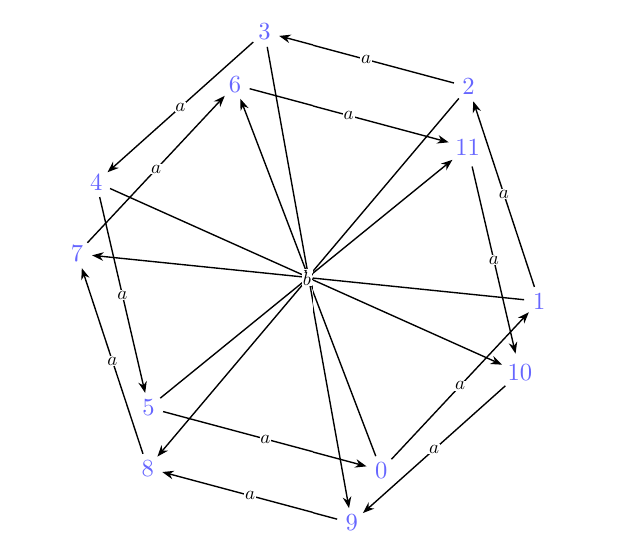
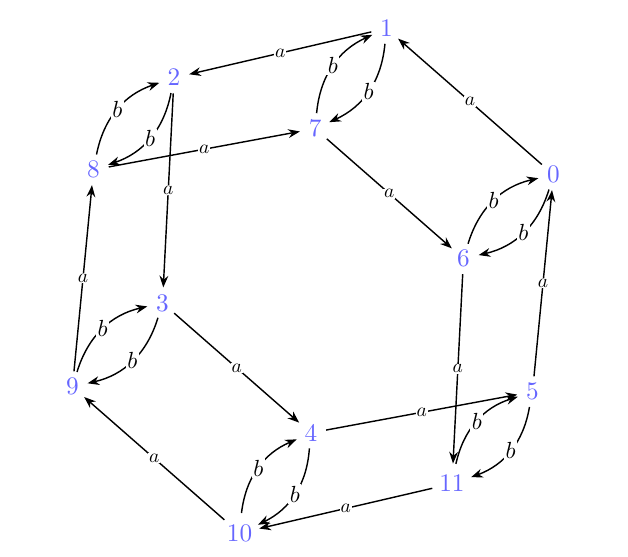
Corrected example in Readme and improved datatotex

diff --git a/stallings_amalgams/visualization.py b/stallings_amalgams/visualization.py
@@ -388,7 +388,7 @@ def datatotex(H):
     G.add_edges_from(pos_edges)
     pos = nx.kamada_kawai_layout(G)
     for key in pos:
-        f+=f"\\draw (5*{pos[key][0]},5*{pos[key][1]}) node[circle,scale = 1.3,thick,blue!60,inner sep = 0.4pt,outer sep = 1.7pt]({key}){{{key}}};\\n"
+        f+=f"\\draw (5*{pos[key][0]},5*{pos[key][1]}) node[circle,scale = 1.3,thick,blue!60,inner sep = 0.4pt,outer sep = 1.7pt]({key}){{{key}}};\n"
     edges={}
     for edge in pos_edges:
         if edge[:-1] not in edges and edge[:-1][::-1] not in edges:
@@ -409,18 +409,18 @@ def datatotex(H):
             if x < 0:
                 zeta = (np.arctan(y/x) + np.pi)*360/(2*np.pi)
             if n==1:                        
-                f+=f"\\path [thick,draw=black,-{{Stealth}}]\\n ({pair[0]}) to[loop,min distance=15mm,in={zeta}+30,out={zeta}-30,looseness=5] node[scale=1.2,thick,fill=white,circle, anchor=center, pos=0.5,inner sep=1pt,minimum size=4pt]{{${edges[pair][0]}$}} ({pair[1]});\\n"
+                f+=f"\\path [thick,draw=black,-{{Stealth}}]\n ({pair[0]}) to[loop,min distance=15mm,in={zeta}+30,out={zeta}-30,looseness=5] node[scale=1.2,thick,fill=white,circle, anchor=center, pos=0.5,inner sep=1pt,minimum size=4pt]{{${edges[pair][0]}$}} ({pair[1]});\n"
             else:
                 for i, label in enumerate(edges[pair]):
-                    f+= f"\\path [thick,draw=black,-{{Stealth}}]\\n ({pair[0]}) to[loop,min distance=20mm,in={zeta+90-(i+1)*180/(n+2)},out={zeta+90-(i+2)*180/(n+2)},looseness=5] node[scale=1.2,thick,fill=white,circle, anchor=center, pos=0.5,inner sep=1pt,minimum size=4pt]{{${label}$}} ({pair[1]});\\n"
+                    f+= f"\\path [thick,draw=black,-{{Stealth}}]\n ({pair[0]}) to[loop,min distance=20mm,in={zeta+90-(i+1)*180/(n+2)},out={zeta+90-(i+2)*180/(n+2)},looseness=5] node[scale=1.2,thick,fill=white,circle, anchor=center, pos=0.5,inner sep=1pt,minimum size=4pt]{{${label}$}} ({pair[1]});\n"
 
         else:
             if n==1:
-                f+=f"\\path [thick,draw=black,-{{Stealth}}]\\n ({pair[0]}) --node[fill=white, anchor=center, pos=0.5,inner sep=0.5pt,minimum size=4pt]{{${edges[pair][0]}$}} ({pair[1]});\\n"
+                f+=f"\\path [thick,draw=black,-{{Stealth}}]\n ({pair[0]}) --node[fill=white, anchor=center, pos=0.5,inner sep=0.5pt,minimum size=4pt]{{${edges[pair][0]}$}} ({pair[1]});\n"
             else:
                 for i,label in enumerate(edges[pair]):
                     if label.endswith("-1"):
-                        f+= f"\\path [thick,draw=black,-{{Stealth}}]\\n ({pair[1]}) to[bend right = {90-(i+1)*180/(n+1)}] node[scale=1.2,thick,fill=white, anchor=center, pos=0.5,inner sep=0.7pt,minimum size=4pt]{{${label[:-2]}$}} ({pair[0]});\\n"
+                        f+= f"\\path [thick,draw=black,-{{Stealth}}]\n ({pair[1]}) to[bend right = {90-(i+1)*180/(n+1)}] node[scale=1.2,thick,fill=white, anchor=center, pos=0.5,inner sep=0.7pt,minimum size=4pt]{{${label[:-2]}$}} ({pair[0]});\n"
                     else:
-                        f+= f"\\path [thick,draw=black,-{{Stealth}}]\\n ({pair[0]}) to[bend left = {90-(i+1)*180/(n+1)}] node[scale=1.2,thick,fill=white, anchor=center, pos=0.5,inner sep=0.7pt,minimum size=4pt]{{${label}$}} ({pair[1]});\\n"
+                        f+= f"\\path [thick,draw=black,-{{Stealth}}]\n ({pair[0]}) to[bend left = {90-(i+1)*180/(n+1)}] node[scale=1.2,thick,fill=white, anchor=center, pos=0.5,inner sep=0.7pt,minimum size=4pt]{{${label}$}} ({pair[1]});\n"
     print(f)
